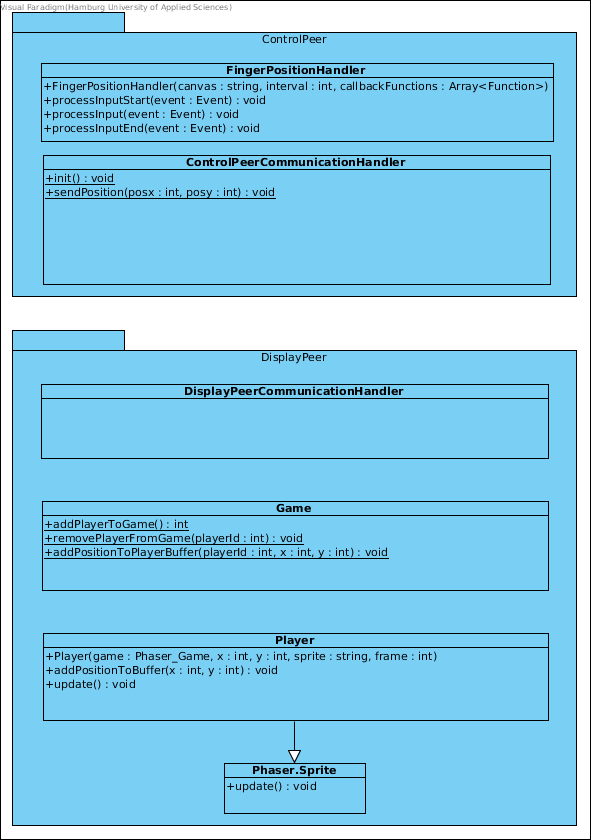
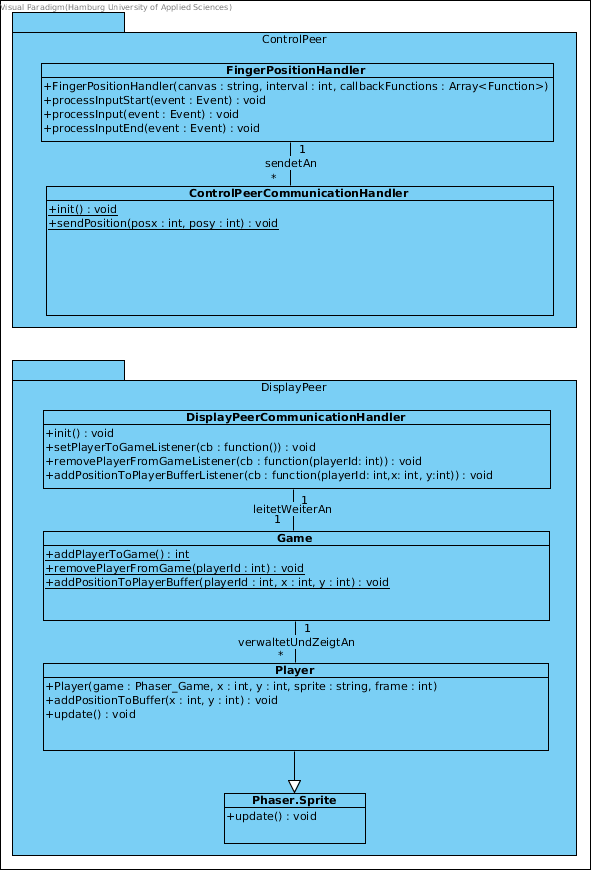
#15 update diagrams

Changed region(s): [[0.0, 0.031, 0.9746, 0.7119], [0.0609, 0.7119, 0.9137, 0.9905]]

diff --git a/docu/maindocumentation/Architektur.tex b/docu/maindocumentation/Architektur.tex
@@ -350,7 +350,7 @@ Zunächst wird auf die technischen Risiken eingegangen
 In diesem Kapitel wird der Prototyp behandelt.
 
 \subsection{Schnittstellen}
-Dieses Diagramm \ref{Prototyp Schnittstellen - Klassendiagram} dient dem gemeinsamen Verständnis, welche Klasse welche Schnittstelle bietet. 
+Dieses Diagramm (Abbildung \ref{Prototyp Schnittstellen - Klassendiagram}) dient dem gemeinsamen Verständnis, welche Klasse welche Schnittstelle bietet. 
 \begin{figure}[ht]
 	\centering
 	\includegraphics[width=0.9\textwidth]{architecture/PrototypeClassDiagram.png}
@@ -359,7 +359,7 @@ Dieses Diagramm \ref{Prototyp Schnittstellen - Klassendiagram} dient dem gemeins
 \end{figure}
 
 \subsection{Fachlicher Ablauf}
-Im fachlichen Ablauf \ref{Prototyp fachlicher Ablauf - Sequenzdiagramm} wird dargestellt, wie sich das Programm verhalten soll. Es wird jedoch nicht auf genaue Implementierungsdetails wert gelegt. Er dient dem allgemeine Verständnis, wie der Programmablauf sein soll. Auch die Funktionsnamen bei fremd-APIs dienen lediglich der Beschreibung, welches Verhalten von der API erwartet wird. \textbf{Allerdings sollte der Ablauf später im Programmcode ersichtlich sein.}
+Im fachlichen Ablauf (Abbildung \ref{Prototyp fachlicher Ablauf - Sequenzdiagramm}) wird dargestellt, wie sich das Programm verhalten soll. Es wird jedoch nicht auf genaue Implementierungsdetails wert gelegt. Er dient dem allgemeine Verständnis, wie der Programmablauf sein soll. Auch die Funktionsnamen bei fremd-APIs dienen lediglich der Beschreibung, welches Verhalten von der API erwartet wird. \textbf{Allerdings sollte der Ablauf später im Programmcode ersichtlich sein.}
 \begin{figure}[ht]
 	\centering
 	\includegraphics[width = 0.9\textheight, angle=270]{architecture/PrototypeSequenceDiagram.png}
